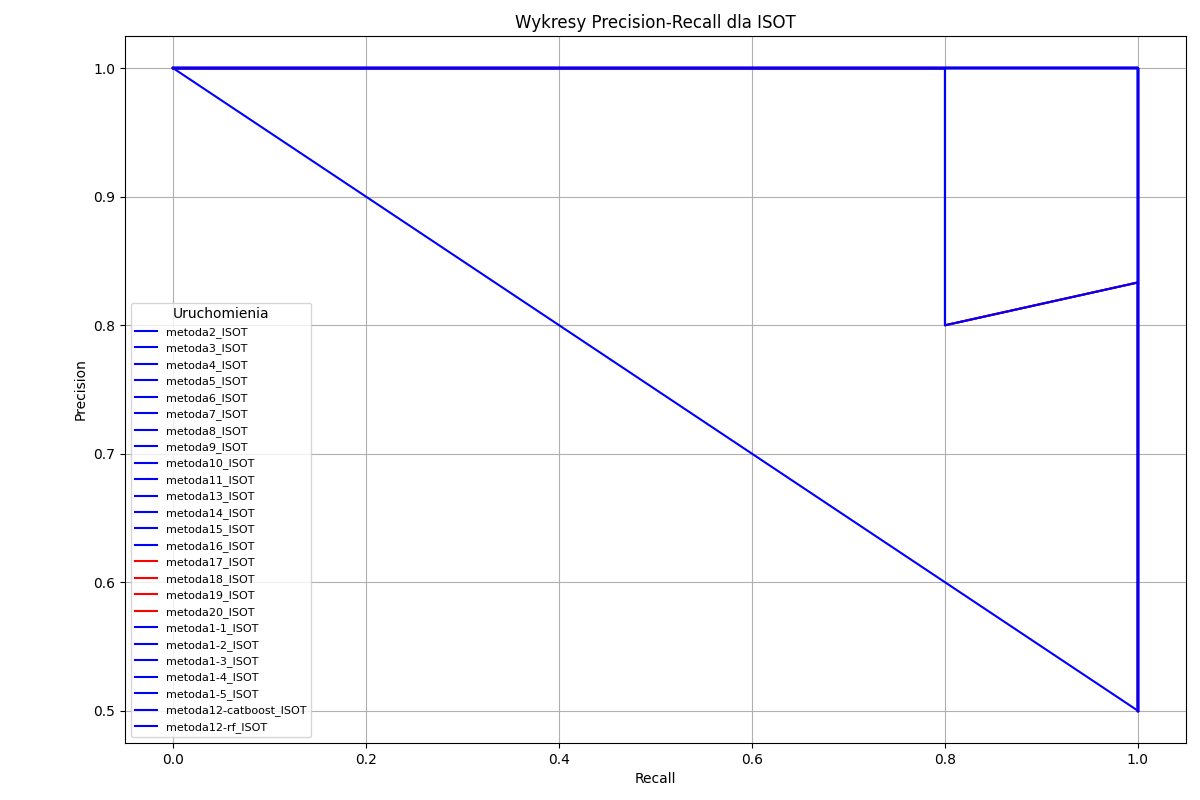
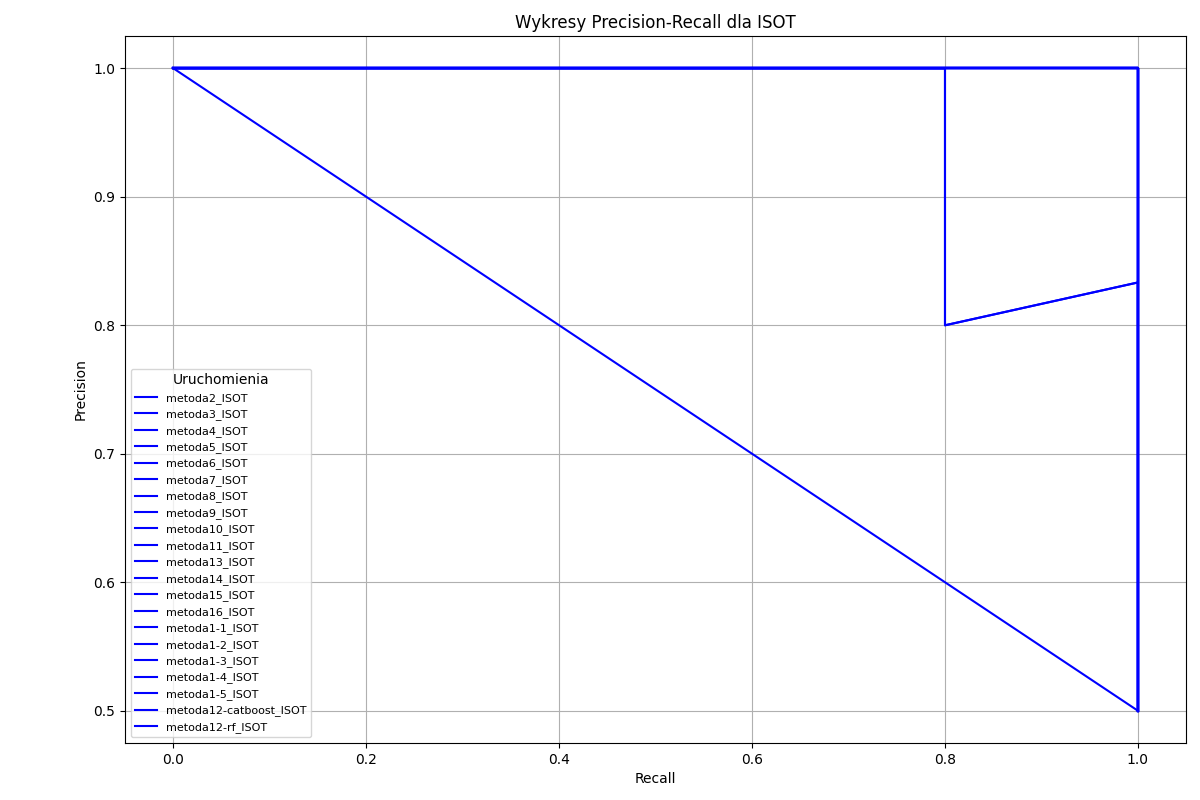
Prepared files to compare

Changed region(s): [[0.0925, 0.375, 0.2158, 0.5], [0.1542, 0.5625, 0.2158, 0.6562]]

diff --git a/plots_best.py b/plots_best.py
@@ -1,0 +1,148 @@
+import pandas as pd
+import matplotlib
+matplotlib.use('Agg')  # Use non-interactive Agg backend
+import matplotlib.pyplot as plt
+import os
+
+# Helper function to remove outliers
+def remove_outliers(data, column):
+    """
+    Removes values that are far beyond the interquartile range (IQR).
+    """
+    Q1 = data[column].quantile(0.25)  # First quartile (25th percentile)
+    Q3 = data[column].quantile(0.75)  # Third quartile (75th percentile)
+    IQR = Q3 - Q1  # Interquartile range
+    lower_bound = Q1 - 1.5 * IQR  # Lower bound
+    upper_bound = Q3 + 1.5 * IQR  # Upper bound
+    return data[(data[column] >= lower_bound) & (data[column] <= upper_bound)]
+
+# Main folder with data
+project_root = os.getcwd()
+base_folder = os.path.join(project_root)
+plot_base_folder = os.path.join(project_root, "plots")
+
+# Define folder to process
+folder = "results_3_few_shot"
+folder_path = os.path.join(base_folder, folder) + '\\'
+plots_output_path = os.path.join(plot_base_folder, folder) + '\\'
+os.makedirs(plots_output_path, exist_ok=True)  # Creates main folder if it doesn't exist
+
+# Create ISOT-specific subfolder for plots
+dataset = 'ISOT'
+dataset_plot_path = os.path.join(plots_output_path, dataset)
+os.makedirs(dataset_plot_path, exist_ok=True)
+
+# Define run patterns
+runs = [i for i in range(1, 17)]  # Runs 1 to 16
+runs_1_x = [f"1-{i}" for i in range(1, 6)]  # Runs 1-1 to 1-5
+run12_variants = ["12-catboost", "12-rf"]  # Run 12 variants
+
+# Updated columns to load
+columns_to_load = [
+    "Accuracy", "Precision", "Recall", "F1-Score", "ROC-AUC", "MCC",
+    "Log Loss", "Cohen's Kappa", "Execution Time (s)", "CV Accuracy (Mean)", "CV Accuracy (Std Dev)"
+]
+
+# Create file paths for ISOT dataset and run patterns
+results_files = []
+pr_curve_files = []
+for run in runs:
+    results_files.append(f"{folder_path}run{run}_{dataset}_results.csv")
+    pr_curve_files.append(f"{folder_path}run{run}_{dataset}_pr_curve.csv")
+for run in runs_1_x:
+    results_files.append(f"{folder_path}run{run}_{dataset}_results.csv")
+    pr_curve_files.append(f"{folder_path}run{run}_{dataset}_pr_curve.csv")
+for run in run12_variants:
+    results_files.append(f"{folder_path}run{run}_{dataset}_results.csv")
+    pr_curve_files.append(f"{folder_path}run{run}_{dataset}_pr_curve.csv")
+
+# Combine all `run*_results.csv` into one DataFrame
+results_data = []
+for file in results_files:
+    if os.path.exists(file):  # Check if file exists
+        try:
+            data = pd.read_csv(file, usecols=lambda col: col in columns_to_load + ['Metoda'])
+            # Extract method name with run number
+            run_name = os.path.basename(file).replace("run", "metoda").split('_')[0]  # Remove "run" prefix
+            dataset_name = os.path.basename(file).split('_')[1]  # Extract dataset name
+            data['Metoda'] = f"{run_name}_{dataset_name}"  # Add column with method and dataset
+            results_data.append(data)
+        except Exception as e:
+            print(f"Error reading {file}: {e}")
+
+if results_data:  # Check if list is not empty before concatenating
+    all_results = pd.concat(results_data, ignore_index=True)
+else:
+    all_results = pd.DataFrame()  # Create empty DataFrame if no files found
+
+# Load all `run*_pr_curve.csv` into a dictionary
+pr_curves = {}
+for file in pr_curve_files:
+    if os.path.exists(file):  # Check if file exists
+        try:
+            run_name = os.path.basename(file).replace("run", "metoda").split('_')[0]  # Remove "run" prefix
+            dataset_name = os.path.basename(file).split('_')[1]  # Extract dataset name
+            pr_curves[f"{run_name}_{dataset_name}"] = pd.read_csv(file)
+        except Exception as e:
+            print(f"Error reading {file}: {e}")
+
+# Create comparative plots for each metric for ISOT
+metrics = [
+    "Accuracy", "Precision", "Recall", "F1-Score", "ROC-AUC", "MCC",
+    "Log Loss", "Cohen's Kappa", "Execution Time (s)", "CV Accuracy (Mean)", "CV Accuracy (Std Dev)"
+]
+if not all_results.empty:
+    for metric in metrics:
+        if metric in all_results.columns:
+            # Check if column is not empty and not all values are None or 0
+            if all_results[metric].notna().any() and all_results[metric].sum() != 0:
+                mask = (all_results[metric] != 0) & (all_results[metric] != 0.0) & (all_results[metric].notna())
+                data_to_plot = all_results[mask]
+
+                if metric == "Execution Time (s)":
+                    # Remove outliers for "Execution Time (s)"
+                    data_to_plot = remove_outliers(data_to_plot, metric)
+
+                if not data_to_plot.empty:
+                    try:
+                        plt.figure(figsize=(10, 6))
+                        x_positions = range(len(data_to_plot))
+                        plt.bar(x_positions, data_to_plot[metric], color='skyblue')
+                        plt.title(f"Porównanie {metric} dla {dataset}", fontsize=12)
+                        plt.xlabel("Uruchomienia", fontsize=10)
+                        plt.ylabel(metric, fontsize=10)
+                        plt.xticks(x_positions, data_to_plot['Metoda'], rotation=90, ha='left', fontsize=8)
+                        plt.tick_params(axis='x', pad=-10)
+                        plt.tight_layout(pad=1.0, rect=(0.05, 0, 1, 1))
+
+                        # Save plot in ISOT-specific folder
+                        plot_file = os.path.join(plots_output_path, dataset, f"best_{metric}_comparison.png")
+                        plt.savefig(plot_file)
+                        plt.close()
+                    except Exception as e:
+                        print(f"Error creating plot for {metric}: {e}")
+else:
+    print(f"Brak danych wynikowych do tworzenia wykresów dla metryk w {folder} dla {dataset}.")
+
+# Create Precision-Recall plots for ISOT
+if pr_curves:
+    try:
+        plt.figure(figsize=(12, 8))
+        for run_dataset, pr_data in pr_curves.items():
+            if dataset in run_dataset and "Precision" in pr_data.columns and "Recall" in pr_data.columns:
+                plt.plot(pr_data["Recall"], pr_data["Precision"], label=run_dataset, color='blue')
+
+        plt.title(f"Wykresy Precision-Recall dla {dataset}", fontsize=12)
+        plt.xlabel("Recall", fontsize=10)
+        plt.ylabel("Precision", fontsize=10)
+        plt.legend(title="Uruchomienia", fontsize=8, title_fontsize=10)
+        plt.grid(True)
+        plt.tight_layout(pad=1.0, rect=(0.05, 0, 1, 1))
+        # Save Precision-Recall plot in ISOT-specific folder
+        pr_plot_file = os.path.join(plots_output_path, dataset, "Precision_Recall_Curves.png")
+        plt.savefig(pr_plot_file)
+        plt.close()
+    except Exception as e:
+        print(f"Error creating Precision-Recall plot: {e}")
+else:
+    print(f"Brak danych PR curve do tworzenia wykresów w {folder} dla {dataset}.")

diff --git a/all_plots.py b/all_plots.py
@@ -48,7 +48,7 @@ run12_variants = ["12-catboost", "12-rf"]  # Run 12 variants
 # Updated columns to load
 columns_to_load = [
     "Accuracy", "Precision", "Recall", "F1-Score", "ROC-AUC", "MCC",
-    "Log Loss", "Cohen's Kappa", "Execution Time (s)", "CV Accuracy (Mean)", "CV Accuracy (Std Dev)"
+    "Log Loss", "Cohen's Kappa", "Execution Time (s)", "CV Accuracy (Mean)"
 ]
 
 for folder in folders:
